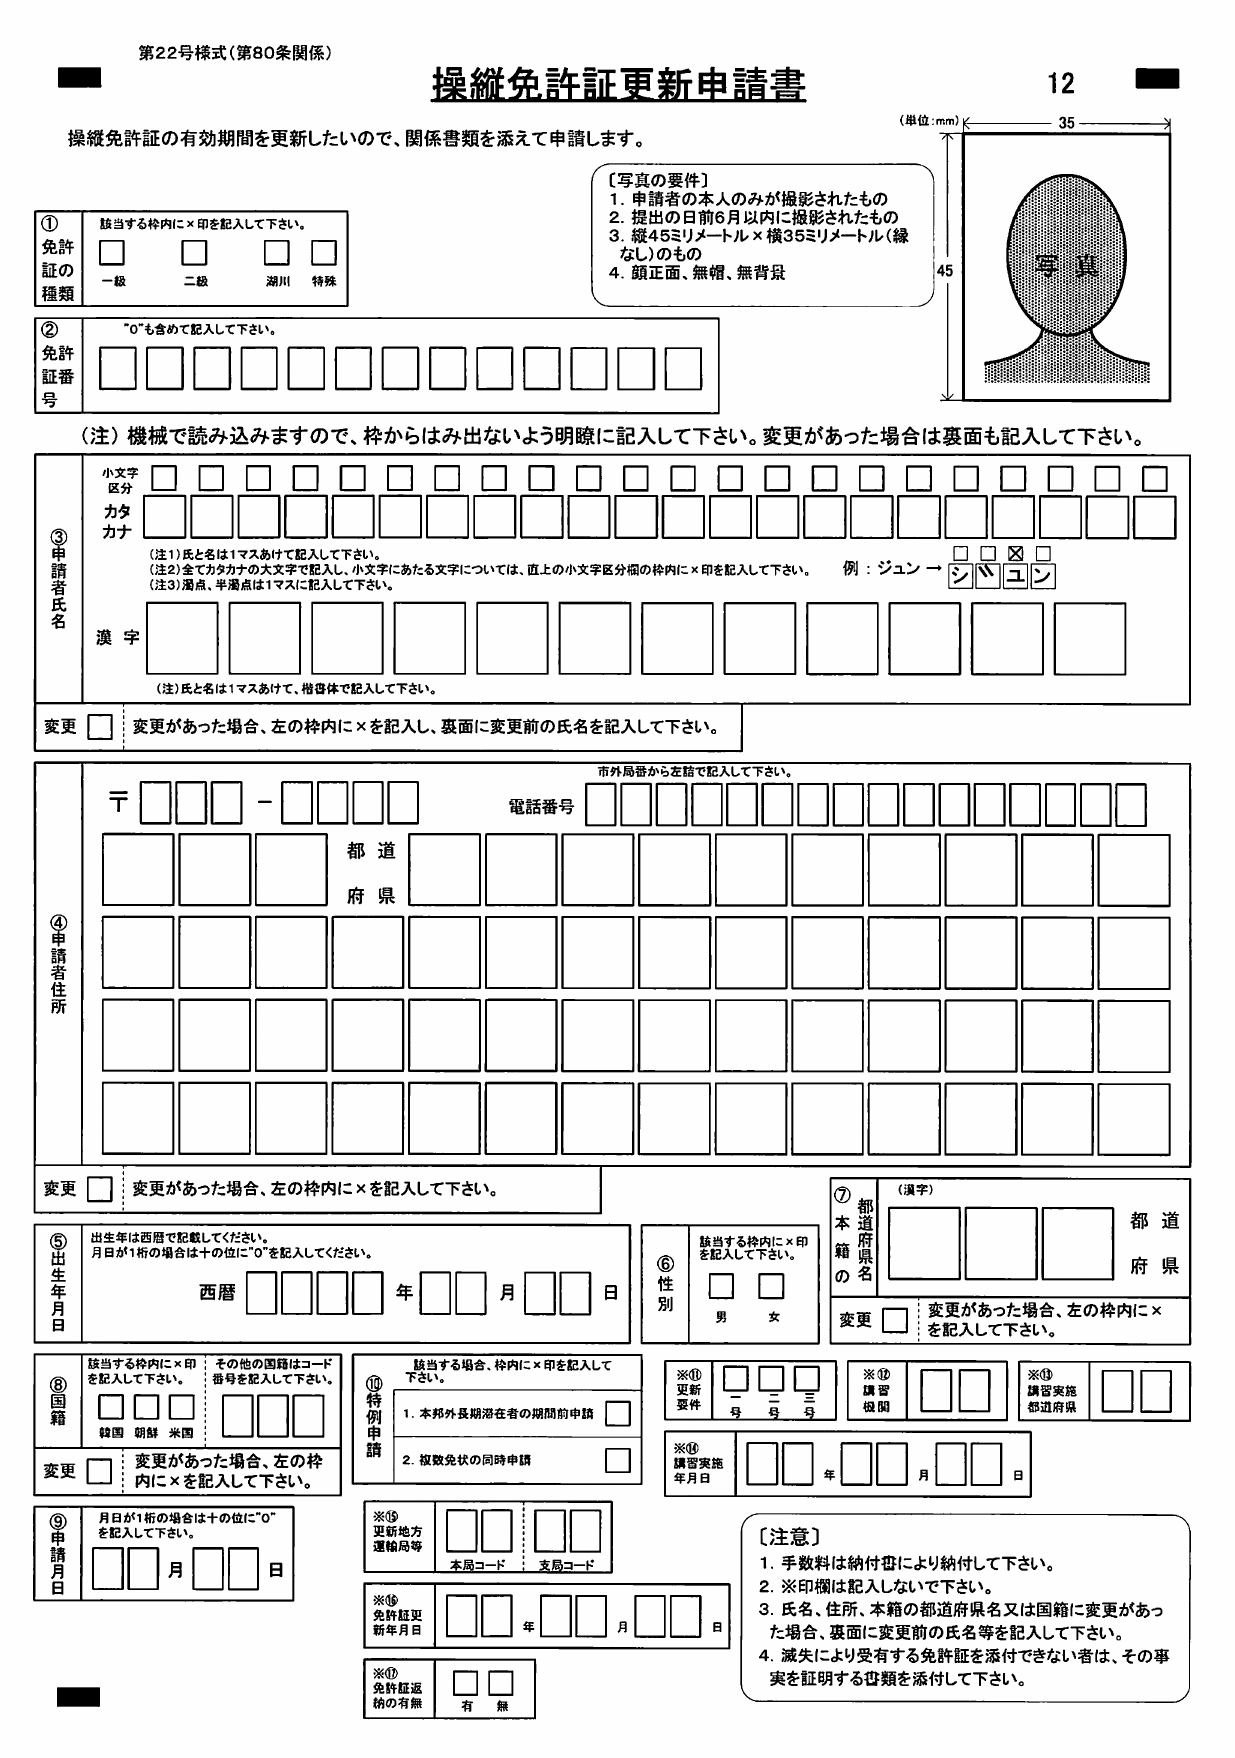
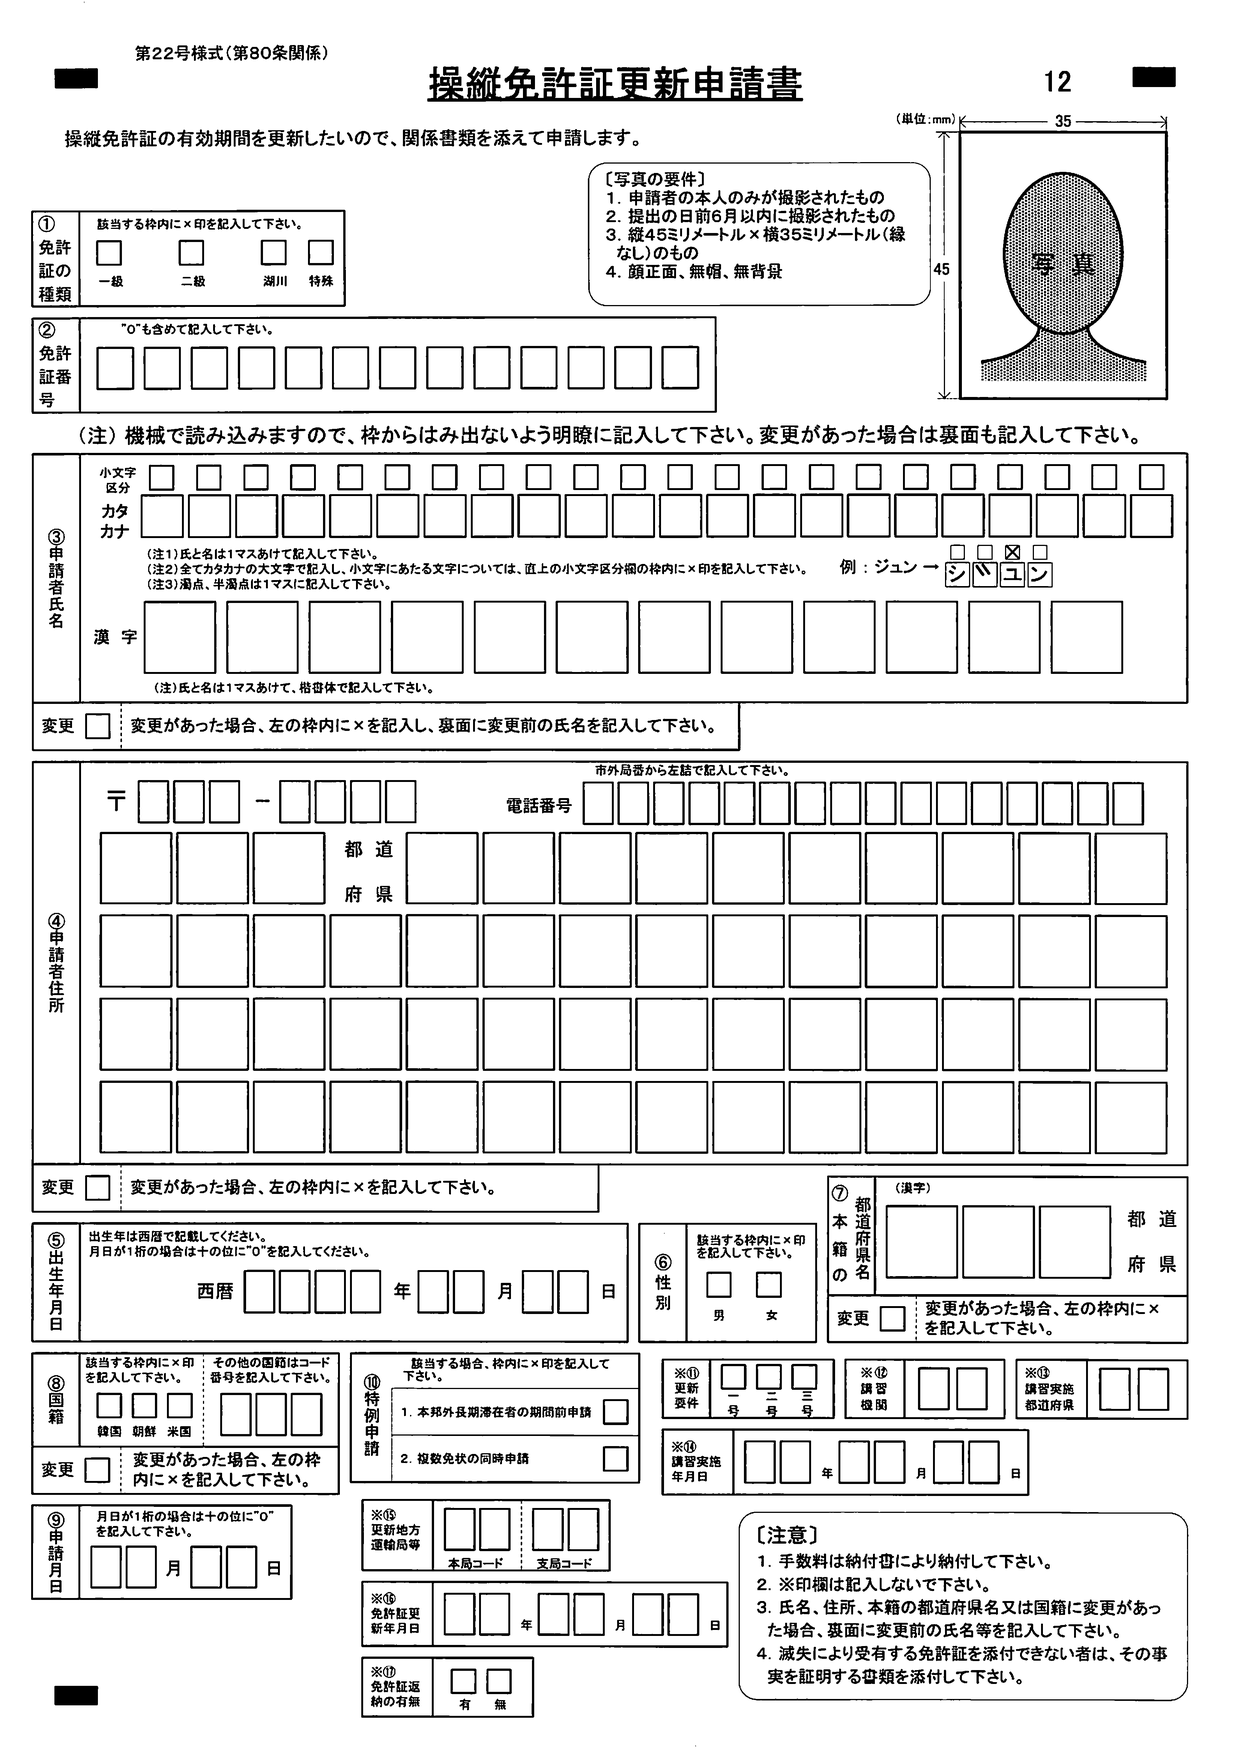
更新申請書の画像を白紙のOCR用紙のスキャンに差し替え、手差し印刷で位置を合わせた
- public/pdf-pages/page-3.png を実物の用紙のスキャン（400dpi）から作り直し
- 更新申請書の欄の位置を、本番用紙に手差しで印刷して合わせた
- 印字位置設定の画面で、全体の位置補正の分だけ画像を逆にずらして表示（画面＝印刷）

diff --git a/src/pages/FormCalibrationPage.tsx b/src/pages/FormCalibrationPage.tsx
@@ -11,6 +11,7 @@ import { formLayoutsApi } from '../lib/api'
 // ── PDF仕様定数 ──────────────────────────────────────────────
 const PDF_W = 592.56
 const PDF_H = 842.4
+const MM_PT = 72 / 25.4   // 1mm = 2.835pt
 const TOTAL_PAGES = 5
 
 // ── 型定義 ─────────────────────────────────────────────────
@@ -235,6 +236,8 @@ export default function FormCalibrationPage() {
   const [groupTab, setGroupTab] = useState<string>('all')   // 一覧の欄番号タブ
   const [listQuery, setListQuery] = useState('')            // 一覧の絞り込み
   const [imgSize, setImgSize] = useState({ w: 0, h: 0 })
+  // 全体の位置補正（mm）。画像（実物の用紙のスキャン）をその分だけ逆に動かして表示し、画面＝印刷にする
+  const [printOff, setPrintOff] = useState({ xMm: 0, yMm: 0 })
   const [fields,  setFields]  = useState<FieldDef[]>(loadFields)
   // 書式レイアウトから読み込んだ場合、その書式名（書き出し時に page を書式内ページへ戻すため）
   const [loadedForm, setLoadedForm] = useState<string | null>(loadLoadedForm)
@@ -655,7 +658,7 @@ ${FORM_LABELS[file]}に切り替えると、その変更は消えます。切り
           className="px-2.5 py-1 rounded-lg text-xs font-semibold border bg-white text-blue-600 border-blue-300 hover:bg-blue-50 disabled:opacity-40">
           🖨 見本を印刷{PAGE_FORM[page] ? `（${FORM_LABELS[PAGE_FORM[page]]}）` : ''}
         </button>
-        <PrintOffsetControl />
+        <PrintOffsetControl onChange={setPrintOff} />
         <div className="flex gap-1 ml-4">
           {Array.from({ length: TOTAL_PAGES }, (_, i) => i + 1).map(p => (
             <button
@@ -709,6 +712,9 @@ ${FORM_LABELS[file]}に切り替えると、その変更は消えます。切り
               src={`/pdf-pages/page-${page}.png`}
               alt={`Page ${page}`}
               className={`block max-w-[700px] w-full select-none ${dragging ? 'cursor-grabbing' : 'cursor-crosshair'}`}
+              // 印刷では欄が補正の分だけ右・下に出る → 画像を左・上へ同じだけずらし、欄と用紙の重なりを印刷と同じに見せる
+              style={imgSize.w > 0 ? { objectPosition:
+                `${(-printOff.xMm * MM_PT * imgSize.w / PDF_W).toFixed(2)}px ${(-printOff.yMm * MM_PT * imgSize.h / PDF_H).toFixed(2)}px` } : undefined}
               onClick={handleImgClick}
               onMouseMove={handleImgMove}
               onMouseLeave={() => setHover(null)}

diff --git a/src/components/PrintOffsetControl.tsx b/src/components/PrintOffsetControl.tsx
@@ -10,14 +10,16 @@ import { loadPrintOffset, savePrintOffset, type PrintOffset } from '../lib/formP
 
 const SUGGESTED: PrintOffset = { xMm: 0.7, yMm: -3.1 }
 
-export default function PrintOffsetControl() {
+/** onChange：読み込み時と保存時に、保存済みの補正を知らせる（位置調整画面の表示を印刷に合わせる用） */
+export default function PrintOffsetControl({ onChange }: { onChange?: (o: PrintOffset) => void } = {}) {
   const [saved, setSaved] = useState<PrintOffset | null>(null)
   const [x, setX] = useState('0')
   const [y, setY] = useState('0')
   const [msg, setMsg] = useState('')
 
   useEffect(() => {
-    loadPrintOffset().then(o => { setSaved(o); setX(String(o.xMm)); setY(String(o.yMm)) })
+    loadPrintOffset().then(o => { setSaved(o); setX(String(o.xMm)); setY(String(o.yMm)); onChange?.(o) })
+    // eslint-disable-next-line react-hooks/exhaustive-deps
   }, [])
 
   const num = (s: string) => { const v = Number(s); return Number.isFinite(v) ? Math.round(v * 10) / 10 : NaN }
@@ -28,7 +30,7 @@ export default function PrintOffsetControl() {
     if (Number.isNaN(o.xMm) || Number.isNaN(o.yMm)) { setMsg('数字を入れてください'); return }
     if (Math.abs(o.xMm) > 15 || Math.abs(o.yMm) > 15) { setMsg('15mm 以内にしてください'); return }
     await savePrintOffset(o)
-    setSaved(o); setMsg('保存しました')
+    setSaved(o); onChange?.(o); setMsg('保存しました')
     setTimeout(() => setMsg(''), 2000)
   }
 
